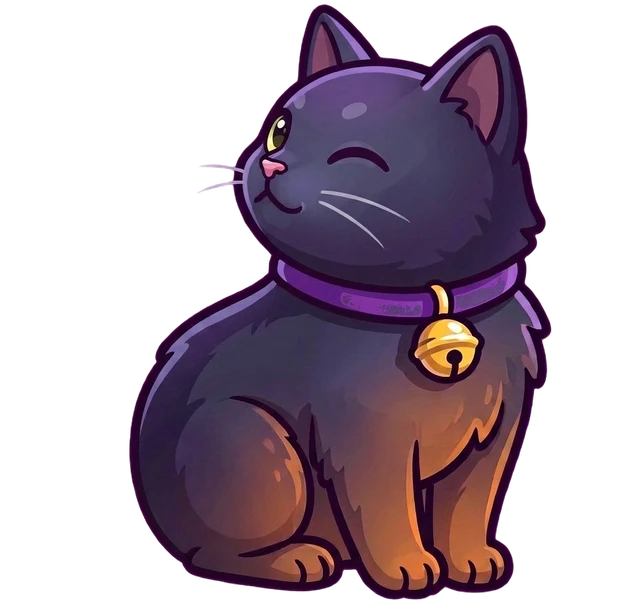
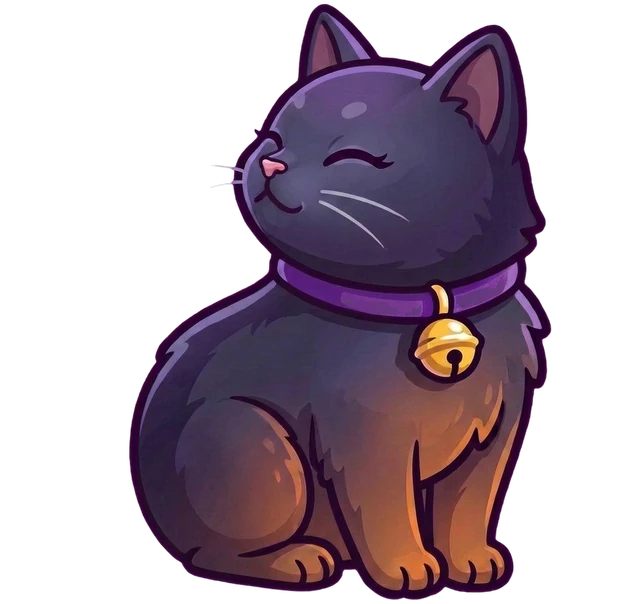
Cat blink closes both eyes (also fixes the winking laugh pose); witch taps her foot and waves, cat yawns and looks around
Claude-Session: https://claude.ai/code/session_01HUNJumBGERKkkPNAkMEwWd

diff --git a/js/cauldron.js b/js/cauldron.js
@@ -74,7 +74,7 @@
     return im;
   }
   const SPR = {};
-  ["hut", "pot", "logs", "stones", "stones_front", "ladle", "ww_idle", "ww_wow", "ww_laugh", "ww_blink", "ww_cheer", "ct_idle", "ct_wow", "ct_blink", "ct_paw", "ct_tail", "flame0", "flame1", "flame2", "flame3", "flame4"].forEach((n) => { SPR[n] = loadImg(ART + n + ".webp"); });
+  ["hut", "pot", "logs", "stones", "stones_front", "ladle", "ww_idle", "ww_wow", "ww_laugh", "ww_blink", "ww_cheer", "ww_wave", "ww_tap", "ct_idle", "ct_wow", "ct_blink", "ct_yawn", "ct_look", "ct_paw", "ct_tail", "flame0", "flame1", "flame2", "flame3", "flame4"].forEach((n) => { SPR[n] = loadImg(ART + n + ".webp"); });
   const sprReady = () => Object.keys(SPR).every((k) => SPR[k].complete && SPR[k].naturalWidth);
   const sprWait = (cb) => {
     if (sprReady()) return cb();
@@ -1496,6 +1496,16 @@
         if (o.hopT !== undefined) o.hopT += dt;
       });
       this.breath = 1 + Math.sin(this.time * 1.9) * 0.006;
+      // little idle gestures: the witch taps her foot or waves hello, the cat yawns or looks around
+      [["witch", ["tap", "wave"], 1.9], ["cat", ["yawn", "look"], 2.4]].forEach(([k, list, dur]) => {
+        const o = a[k];
+        if (o.gest) { o.gT += dt; if (o.gT > o.gDur || o.pose !== "idle") o.gest = null; }
+        o.gNext = (o.gNext === undefined ? (k === "witch" ? 4 : 6.5) : o.gNext) - dt;
+        if (o.gNext <= 0 && !o.gest && o.pose === "idle") {
+          o.gest = list[(o.gI = ((o.gI || 0) + 1) % list.length)]; o.gT = 0; o.gDur = dur + (o.gest === "look" ? 0.6 : 0);
+          o.gNext = rand(7, 12);
+        }
+      });
       // idle life: every few seconds the witch gives her wand a flourish...
       const w = a.witch;
       w.flT = (w.flT === undefined ? 3 : w.flT) - dt;
@@ -1540,8 +1550,10 @@
     }
     drawWitch(ctx) {
       const o = this.act.witch;
-      const pose = o.pose !== "idle" ? o.pose : (o.blinkT < 0 ? "blink" : "idle");
-      const imgs = { idle: SPR.ww_idle, blink: SPR.ww_blink, wow: SPR.ww_wow, laugh: SPR.ww_laugh, cheer: SPR.ww_cheer };
+      let pose = o.pose !== "idle" ? o.pose : (o.blinkT < 0 ? "blink" : "idle");
+      if (pose === "idle" && o.gest === "wave") pose = "wave";
+      else if (pose === "idle" && o.gest === "tap") pose = (Math.floor(o.gT * 3.4) % 2 === 0) ? "tap" : "idle";
+      const imgs = { idle: SPR.ww_idle, blink: SPR.ww_blink, wow: SPR.ww_wow, laugh: SPR.ww_laugh, cheer: SPR.ww_cheer, wave: SPR.ww_wave, tap: SPR.ww_tap };
       const im = imgs[pose] && imgs[pose].naturalWidth ? imgs[pose] : imgs.idle;
       if (!im || !im.naturalWidth) return;
       const hs = this.hopShape(o);
@@ -1560,8 +1572,9 @@
     }
     drawCat(ctx) {
       const o = this.act.cat, t = this.time;
-      const pose = o.pose !== "idle" ? o.pose : (o.blinkT < 0 ? "blink" : "idle");
-      const imgs = { idle: SPR.ct_idle, blink: SPR.ct_blink, wow: SPR.ct_wow, paw: SPR.ct_paw, laugh: SPR.ct_blink };
+      let pose = o.pose !== "idle" ? o.pose : (o.blinkT < 0 ? "blink" : "idle");
+      if (pose === "idle" && o.gest) pose = o.gest === "look" ? (o.gT > 0.15 && o.gT < o.gDur - 0.15 ? "look" : "idle") : "yawn";
+      const imgs = { idle: SPR.ct_idle, blink: SPR.ct_blink, wow: SPR.ct_wow, paw: SPR.ct_paw, laugh: SPR.ct_blink, yawn: SPR.ct_yawn, look: SPR.ct_look };
       const im = imgs[pose] && imgs[pose].naturalWidth ? imgs[pose] : imgs.idle;
       if (!im || !im.naturalWidth) return;
       const hs = this.hopShape(o);
